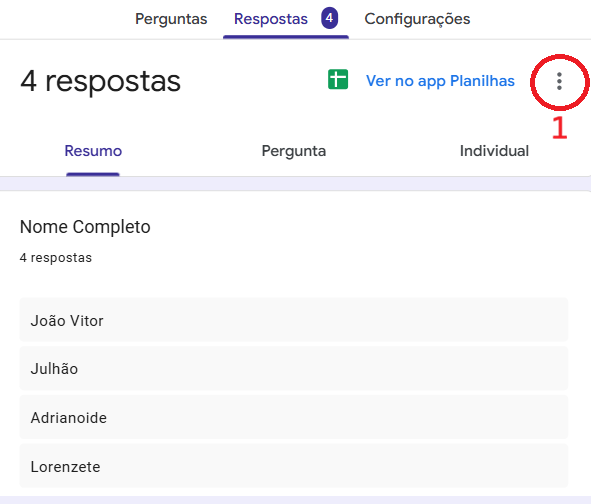
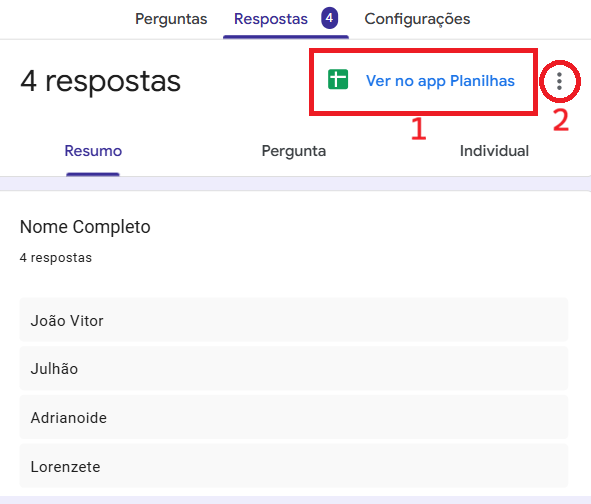
feat: pop para tela inicial após importar planilha

Changed region(s): [[0.5178, 0.0893, 1.0, 0.2976]]

diff --git a/lib/presentation/pages/receber_dados_page.dart b/lib/presentation/pages/receber_dados_page.dart
@@ -60,7 +60,8 @@ class ReceberDadosPage extends StatelessWidget {
                                   final confirmar = await FicDialog.show(
                                     context: context,
                                     title: "Substituir Dados?",
-                                    message: "Já existem participantes registados. Se prosseguir, os dados atuais serão substituídos.",
+                                    message:
+                                        "Já existem participantes registados. Se prosseguir, os dados atuais serão substituídos.",
                                     confirmText: "SIM",
                                     cancelText: "NÃO",
                                   );
@@ -71,11 +72,8 @@ class ReceberDadosPage extends StatelessWidget {
                                 vm.executarImportacao(
                                   listaVM: pessoaVM,
                                   onSuccess: () {
-                                    FicFeedback.show(
-                                      context,
-                                      message: "Dados recebidos com sucesso!",
-                                      type: FeedbackType.success,
-                                    );
+                                    if (!context.mounted) return;
+                                    Navigator.pop(context, true);
                                   },
                                   onError: (msg) {
                                     FicFeedback.show(

diff --git a/lib/presentation/pages/home_page.dart b/lib/presentation/pages/home_page.dart
@@ -6,6 +6,7 @@ import 'tutorial_page.dart';
 import 'encerramento_page.dart';
 import 'receber_dados_page.dart';
 import '../components/fic_button.dart';
+import '../components/fic_feedback.dart';
 
 class HomePage extends StatelessWidget {
   const HomePage({super.key});
@@ -62,10 +63,24 @@ class HomePage extends StatelessWidget {
                 // Receber Dados
                 FicButton(
                   label: "Importar Planilha",
-                  onPressed: () => Navigator.push(
-                    context,
-                    MaterialPageRoute(builder: (_) => const ReceberDadosPage()),
-                  ),
+                  onPressed: () async {
+                    final result = await Navigator.push<bool>(
+                      context,
+                      MaterialPageRoute(
+                          builder: (_) => const ReceberDadosPage()),
+                    );
+
+                    if (result == true && context.mounted) {
+                      WidgetsBinding.instance.addPostFrameCallback((_) {
+                        if (!context.mounted) return;
+                        FicFeedback.show(
+                          context,
+                          message: "Dados recebidos com sucesso!",
+                          type: FeedbackType.success,
+                        );
+                      });
+                    }
+                  },
                 ),
                 const SizedBox(height: 12),
 

diff --git a/lib/presentation/components/fic_dialog.dart b/lib/presentation/components/fic_dialog.dart
@@ -8,6 +8,7 @@ class FicDialog {
     required String message,
     String confirmText = "CONFIRMAR",
     String cancelText = "CANCELAR",
+    bool showCancel = true,
   }) {
     return showDialog<bool>(
       context: context,
@@ -24,17 +25,18 @@ class FicDialog {
           ),
           content: Text(message),
           actions: [
-            TextButton(
-              onPressed: () {
-                Navigator.pop(context, false);
-              },
-              child: Text(
-                cancelText,
-                style: const TextStyle(
-                  color: Colors.black54,
+            if (showCancel)
+              TextButton(
+                onPressed: () {
+                  Navigator.pop(context, false);
+                },
+                child: Text(
+                  cancelText,
+                  style: const TextStyle(
+                    color: Colors.black54,
+                  ),
                 ),
               ),
-            ),
             ElevatedButton(
               style: ElevatedButton.styleFrom(
                 backgroundColor: AppColors.primaryYellow,

diff --git a/lib/presentation/viewmodels/receber_dados_view_model.dart b/lib/presentation/viewmodels/receber_dados_view_model.dart
@@ -1,4 +1,5 @@
 import 'dart:io';
+import 'dart:async';
 import 'package:flutter/material.dart';
 import 'package:file_picker/file_picker.dart';
 import '../../domain/entities/pessoa.dart';
@@ -39,8 +40,8 @@ class ReceberDadosViewModel extends ChangeNotifier {
 
   Future<void> executarImportacao({
     required PessoaViewModel listaVM,
-    required VoidCallback onSuccess,
-    required Function(String) onError,
+    required FutureOr<void> Function() onSuccess,
+    required FutureOr<void> Function(String) onError,
   }) async {
     if (_selectedFile == null) return;
 
@@ -56,11 +57,12 @@ class ReceberDadosViewModel extends ChangeNotifier {
 
       _isProcessing = false;
       notifyListeners();
-      onSuccess(); // Dispara o callback de sucesso
+      await Future.sync(onSuccess); // Dispara o callback de sucesso
     } catch (e) {
       _isProcessing = false;
       notifyListeners();
-      onError(e.toString()); // Dispara o callback de erro
+      await Future.sync(
+          () => onError(e.toString())); // Dispara o callback de erro
     }
   }
 }
